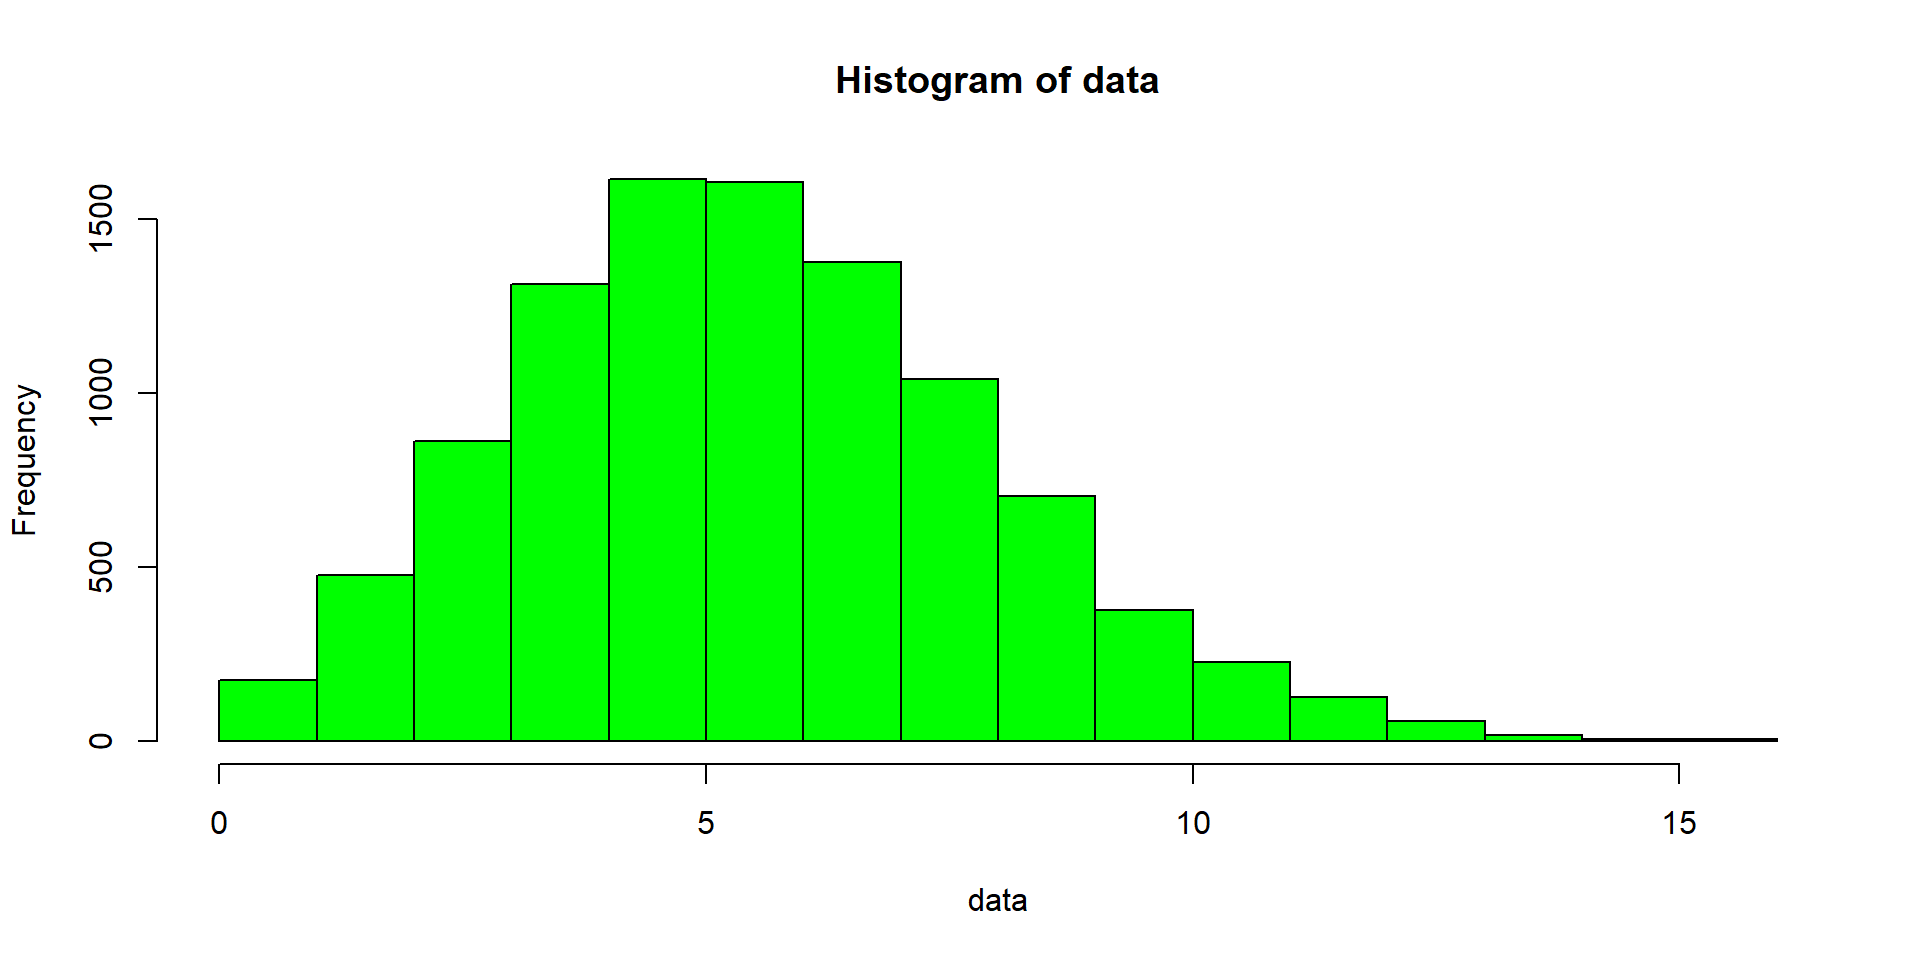
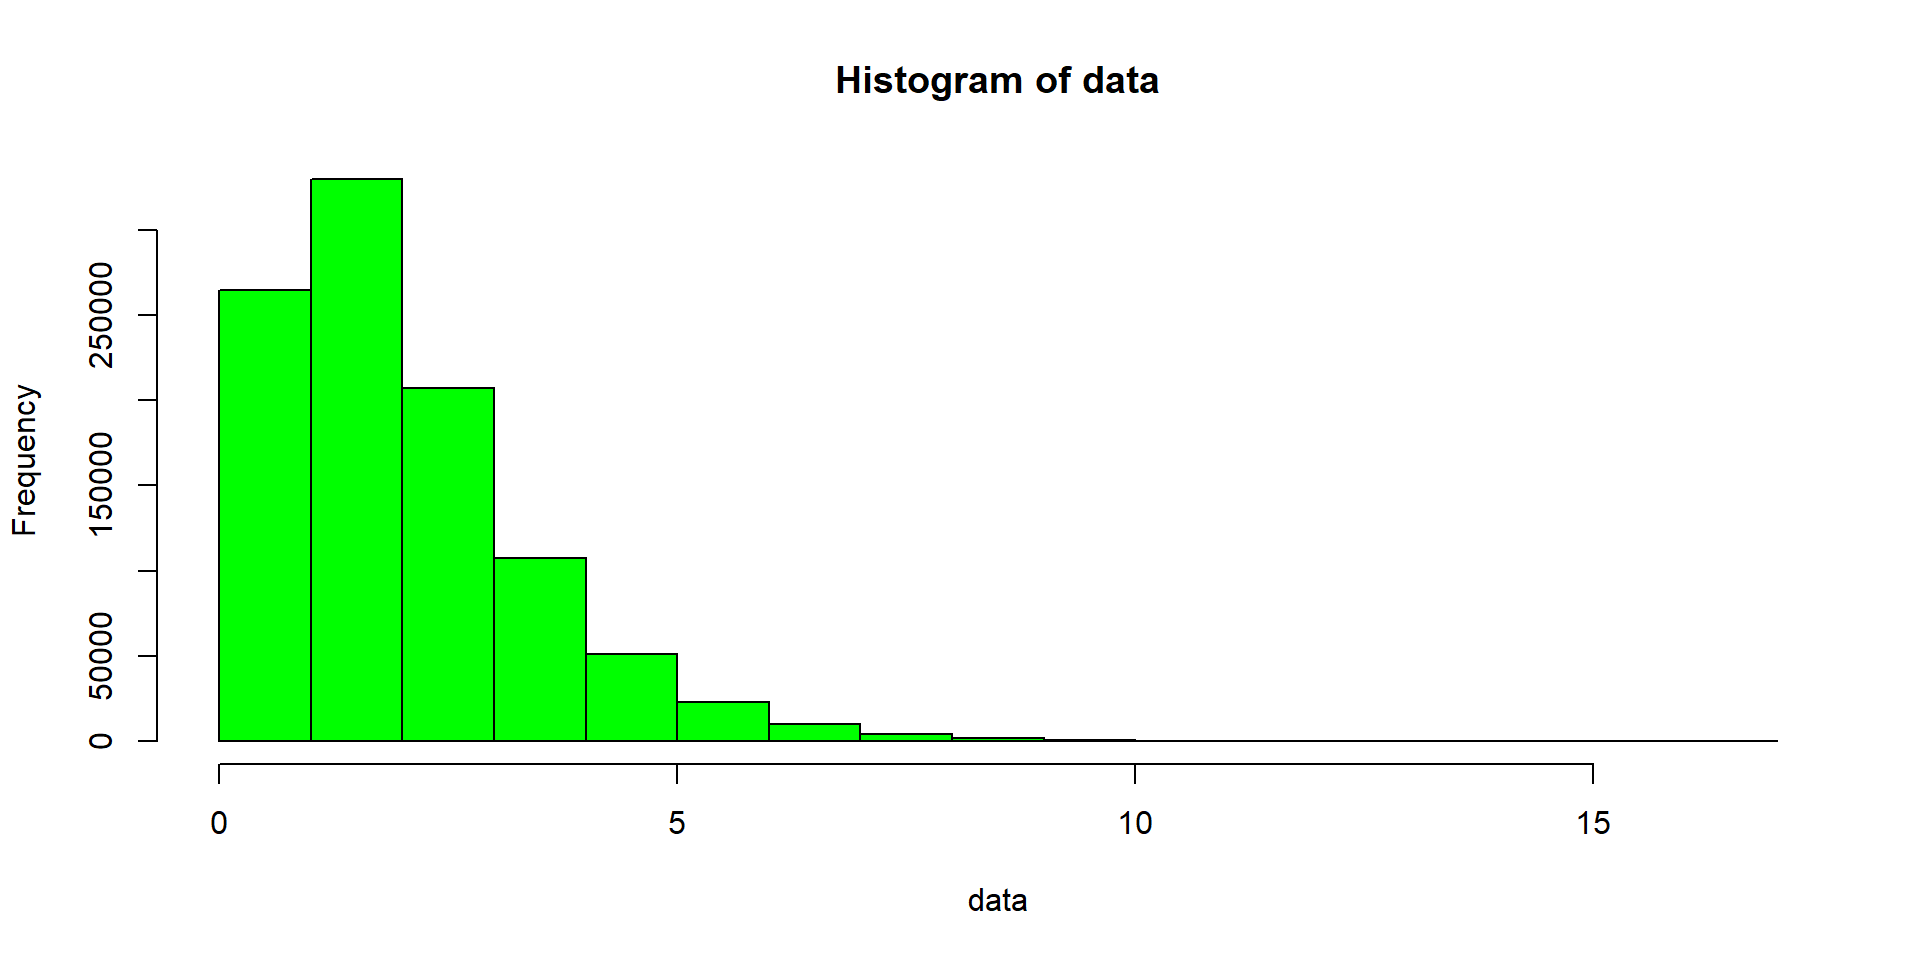
references

diff --git a/03_Data_Visualisation_part1.html b/03_Data_Visualisation_part1.html
@@ -403,7 +403,7 @@
 </div>
 <div class="cell">
 <div class="sourceCode cell-code" id="cb2"><pre class="sourceCode r code-with-copy"><code class="sourceCode r"><span id="cb2-1"><a href="#cb2-1" aria-hidden="true" tabindex="-1"></a>data <span class="sc">%&gt;%</span> <span class="co"># data is a tibble</span></span>
-<span id="cb2-2"><a href="#cb2-2" aria-hidden="true" tabindex="-1"></a>    <span class="fu">ggplot</span>(<span class="at">mapping =</span> <span class="fu">aes</span>(<span class="at">x =</span> x)) <span class="sc">+</span> <span class="fu">geom_bar</span>(<span class="at">fill =</span> <span class="st">"green"</span>, <span class="at">col =</span> <span class="st">"black"</span>) <span class="sc">+</span></span>
+<span id="cb2-2"><a href="#cb2-2" aria-hidden="true" tabindex="-1"></a>    <span class="fu">ggplot</span>(<span class="at">mapping =</span> <span class="fu">aes</span>(<span class="at">x =</span> x)) <span class="sc">+</span> <span class="fu">geom_histogram</span>(<span class="at">fill =</span> <span class="st">"green"</span>, <span class="at">col =</span> <span class="st">"black"</span>) <span class="sc">+</span></span>
 <span id="cb2-3"><a href="#cb2-3" aria-hidden="true" tabindex="-1"></a>    <span class="fu">labs</span>(<span class="at">title =</span> <span class="st">"Histogram of data"</span>) <span class="sc">+</span> <span class="fu">theme_minimal</span>(<span class="at">base_size =</span> <span class="dv">16</span>)</span></code><button title="Copy to Clipboard" class="code-copy-button"><i class="bi"></i></button></pre></div>
 
 </div>
@@ -413,15 +413,56 @@
 <h1>Why should we prefer ggplot2?</h1>
 
 </section>
-<section id="we-could-possible-do-this" class="slide level2">
-<h2>We could possible do this</h2>
+<section id="because" class="slide level2">
+<h2>Because</h2>
+<blockquote>
+<p>Unlike most other graphics packages, ggplot2 has an underlying grammar, based on the Grammar of Graphics, that allows you to compose graphs by combining independent components. This makes ggplot2 powerful. Rather than being limited to sets of pre-defined graphics, you can create novel graphics that are tailored to your specific problem.</p>
+</blockquote>
+<p>Hadley Wickham,</p>
+<p><em>ggplot2: Elegant Graphics for Data Analysis</em></p>
+</section>
+<section id="for-example" class="slide level2">
+<h2>For example</h2>
+<div class="columns">
+<div class="column" style="width:25%;">
 
-<img data-src="Img\dicaprio-gfs.png" class="r-stretch"></section></section>
+</div><div class="column" style="width:50%;">
+<p><img data-src="Img\dicaprio-gfs.png"></p>
+</div><div class="column" style="width:25%;">
+
+</div>
+</div>
+
+<aside><div>
+<p>Image Credit <a href="https://github.com/tashapiro/tanya-data-viz/tree/main/dicaprio-gfs">Tanya Shapiro</a></p>
+</div></aside></section></section>
+<section>
 <section id="grammar" class="title-slide slide level1 center">
 <h1>Grammar?</h1>
 
 </section>
-
+<section id="the-grammar-of-graphics-book" class="slide level2">
+<h2>The Grammar of Graphics book</h2>
+<div class="columns">
+<div class="column" style="width:60%;">
+<ul>
+<li><p>Theoretical foundation of graphical applications and packages including <strong>ggplot2</strong>.</p></li>
+<li><p>Should you read it? Maybe in the future!</p></li>
+<li><p>To have an intuition (and other things about ggplot2) watch</p>
+<ul>
+<li><p><a href="https://www.youtube.com/watch?v=h29g21z0a68&amp;t=6231s">ggplot2 workshop part 1</a></p></li>
+<li><p><a href="https://www.youtube.com/watch?v=0m4yywqNPVY&amp;t=10s">ggplot2 workshop part 2</a></p></li>
+</ul></li>
+</ul>
+</div><div class="column" style="width:40%;">
+<div class="quarto-figure quarto-figure-center">
+<figure>
+<p><img data-src="Img\grammar_graphics.jpg"></p>
+</figure>
+</div>
+</div>
+</div>
+</section></section>
 <section>
 <section id="learning-resources" class="title-slide slide level1 center">
 <h1>Learning Resources</h1>
@@ -431,9 +472,11 @@
 <h2>R for Data Science</h2>
 <div class="columns">
 <div class="column" style="width:60%;">
-<p><a href="https://r4ds.had.co.nz/">R for Data Science</a> by Hadley Wickham &amp; Garrett Grolemund</p>
-<p>This is still the best place where to start! <strong>Chapter 3</strong> is dedicated to data visualisation.</p>
-<p>There is also a work-in-progress <a href="https://r4ds.hadley.nz/">2<sup>nd</sup> edition</a> of the book.</p>
+<ul>
+<li><p><a href="https://r4ds.had.co.nz/">R for Data Science</a> by Hadley Wickham &amp; Garrett Grolemund</p></li>
+<li><p>This is still the best place where to start!</p></li>
+<li><p>There is also a work-in-progress <a href="https://r4ds.hadley.nz/">2<sup>nd</sup> edition</a> of the book.</p></li>
+</ul>
 </div><div class="column" style="width:40%;">
 <div class="quarto-figure quarto-figure-center">
 <figure>
@@ -447,8 +490,10 @@
 <h2>R Graphics Cookbook</h2>
 <div class="columns">
 <div class="column" style="width:60%;">
-<p><a href="https://r-graphics.org/">R Graphics Cookbook</a> (2e) by Winston Chang.</p>
-<p>This is what you should read to fully understand how ggplot2 works.</p>
+<ul>
+<li><p><a href="https://r-graphics.org/">R Graphics Cookbook</a> (2e) by Winston Chang.</p></li>
+<li><p>A lot of recipes to produce plots!</p></li>
+</ul>
 </div><div class="column" style="width:40%;">
 <div class="quarto-figure quarto-figure-center">
 <figure>
@@ -462,8 +507,10 @@
 <h2>ggplot2 book</h2>
 <div class="columns">
 <div class="column" style="width:60%;">
-<p><a href="https://ggplot2-book.org/">ggplot2</a> (3e) by Hadley Wickham &amp; Danielle Navarro &amp; Thomas Lin Pedersen.</p>
-<p>This is what you should read to fully understand how ggplot2 works.</p>
+<ul>
+<li><p><a href="https://ggplot2-book.org/">ggplot2</a> (3e) by Hadley Wickham &amp; Danielle Navarro &amp; Thomas Lin Pedersen.</p></li>
+<li><p>This is what you should read to fully understand how ggplot2 works.</p></li>
+</ul>
 </div><div class="column" style="width:40%;">
 <div class="quarto-figure quarto-figure-center">
 <figure>
@@ -475,15 +522,22 @@
 </section>
 <section id="other-links" class="slide level2">
 <h2>Other Links</h2>
+<p>Books:</p>
 <ul>
-<li><p><a href="https://stat545.com/">STAT 545</a> by Jenny Bryan &amp; The STAT 545 TAs</p></li>
-<li><p><a href="https://style.tidyverse.org/">The Tidyverse Style Guide</a> by Hadley Wickham</p></li>
-<li><p><a href="https://rc2e.com/">R Cookbook</a> by James (JD) Long &amp; Paul Teetor</p></li>
+<li><p><a href="https://socviz.co/">Data Visualization - A practical introduction</a> by Kieran Healy</p></li>
+<li><p><a href="https://rkabacoff.github.io/datavis/">Data Visualization with R</a> by Rob Kabacoff</p></li>
 </ul>
+<p>Websites:</p>
+<ul>
+<li><p><a href="https://r-graph-gallery.com/">The R Graph Gallery</a></p></li>
+<li><p><a href="https://www.data-to-viz.com/">From Data to Viz</a></p></li>
+</ul>
+</section></section>
+<section id="ok-but-i-want-to-make-plots" class="title-slide slide level1 center">
+<h1>Ok… But I want to make plots!</h1>
 
-<aside><div>
-<p>A great reference to R base language is <a href="https://rstudio.github.io/r-manuals/r-intro/">An Introduction to R</a>.</p>
-</div></aside></section></section>
+</section>
+
 <section>
 <section id="thank-you" class="title-slide slide level1 center">
 <h1>Thank you!</h1>
